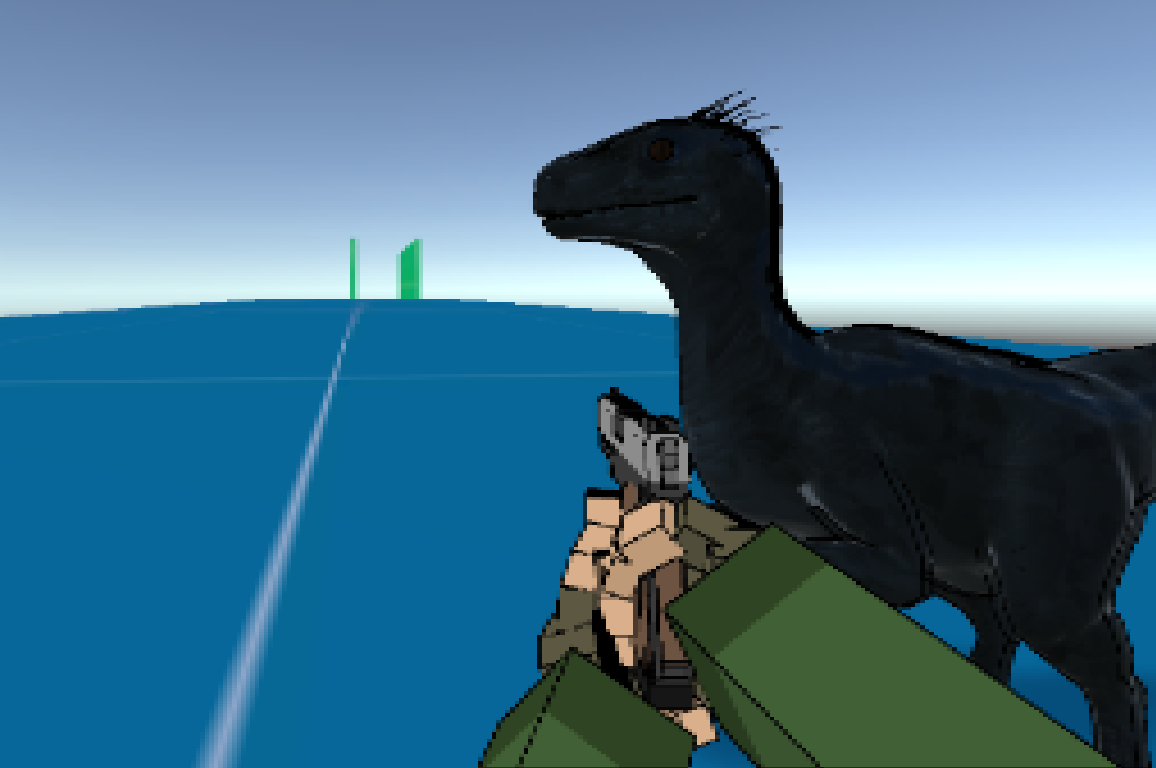
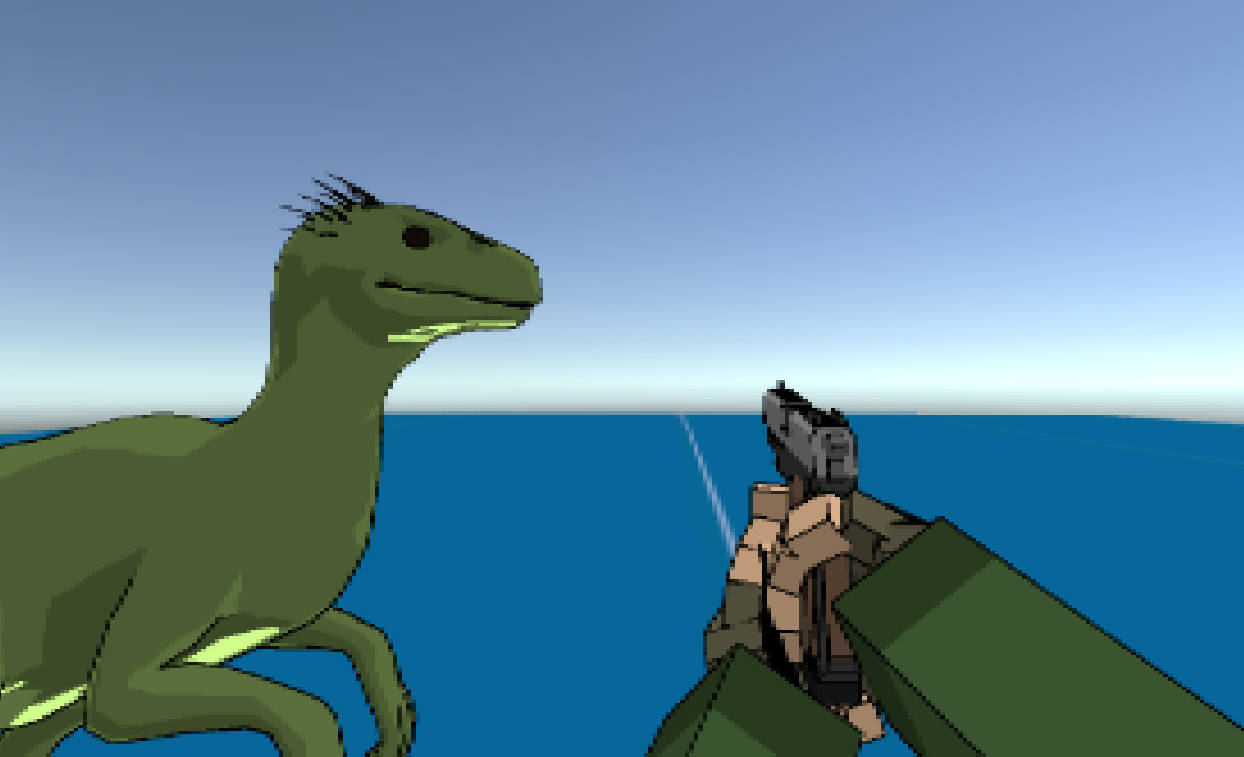
updated blog

diff --git a/blog.html b/blog.html
@@ -46,8 +46,16 @@
   <script>
     const posts = [
     {
+        title: 'Viewmodel Shader-2',
+        date: '2026-03-20',
+        content: `  <p>Discovered another artifact in the outline shader, the outline thickness changes if their is an object behind it.</p>
+                    <p>Fixed the issue where the top of the gun was black.</p>
+                    <blockquote>This was because the surface is a steep angle and exceeded the depth threshold.</blockquote>`,
+        images: []
+    },
+    {
         title: 'Viewmodel Shader',
-        date: '2026-03-18',
+        date: '2026-03-19',
         content: `  <p>To get a viewmodel I liked the look of I added a combinations of pixelization shader, cel shader, and outline shader.</p>
                     <p>The outline shader adds black outlines to the models and took a while to get working.</p>
                     <blockquote>In the end I ended up using a Roberts Cross edge detector.</blockquote>
